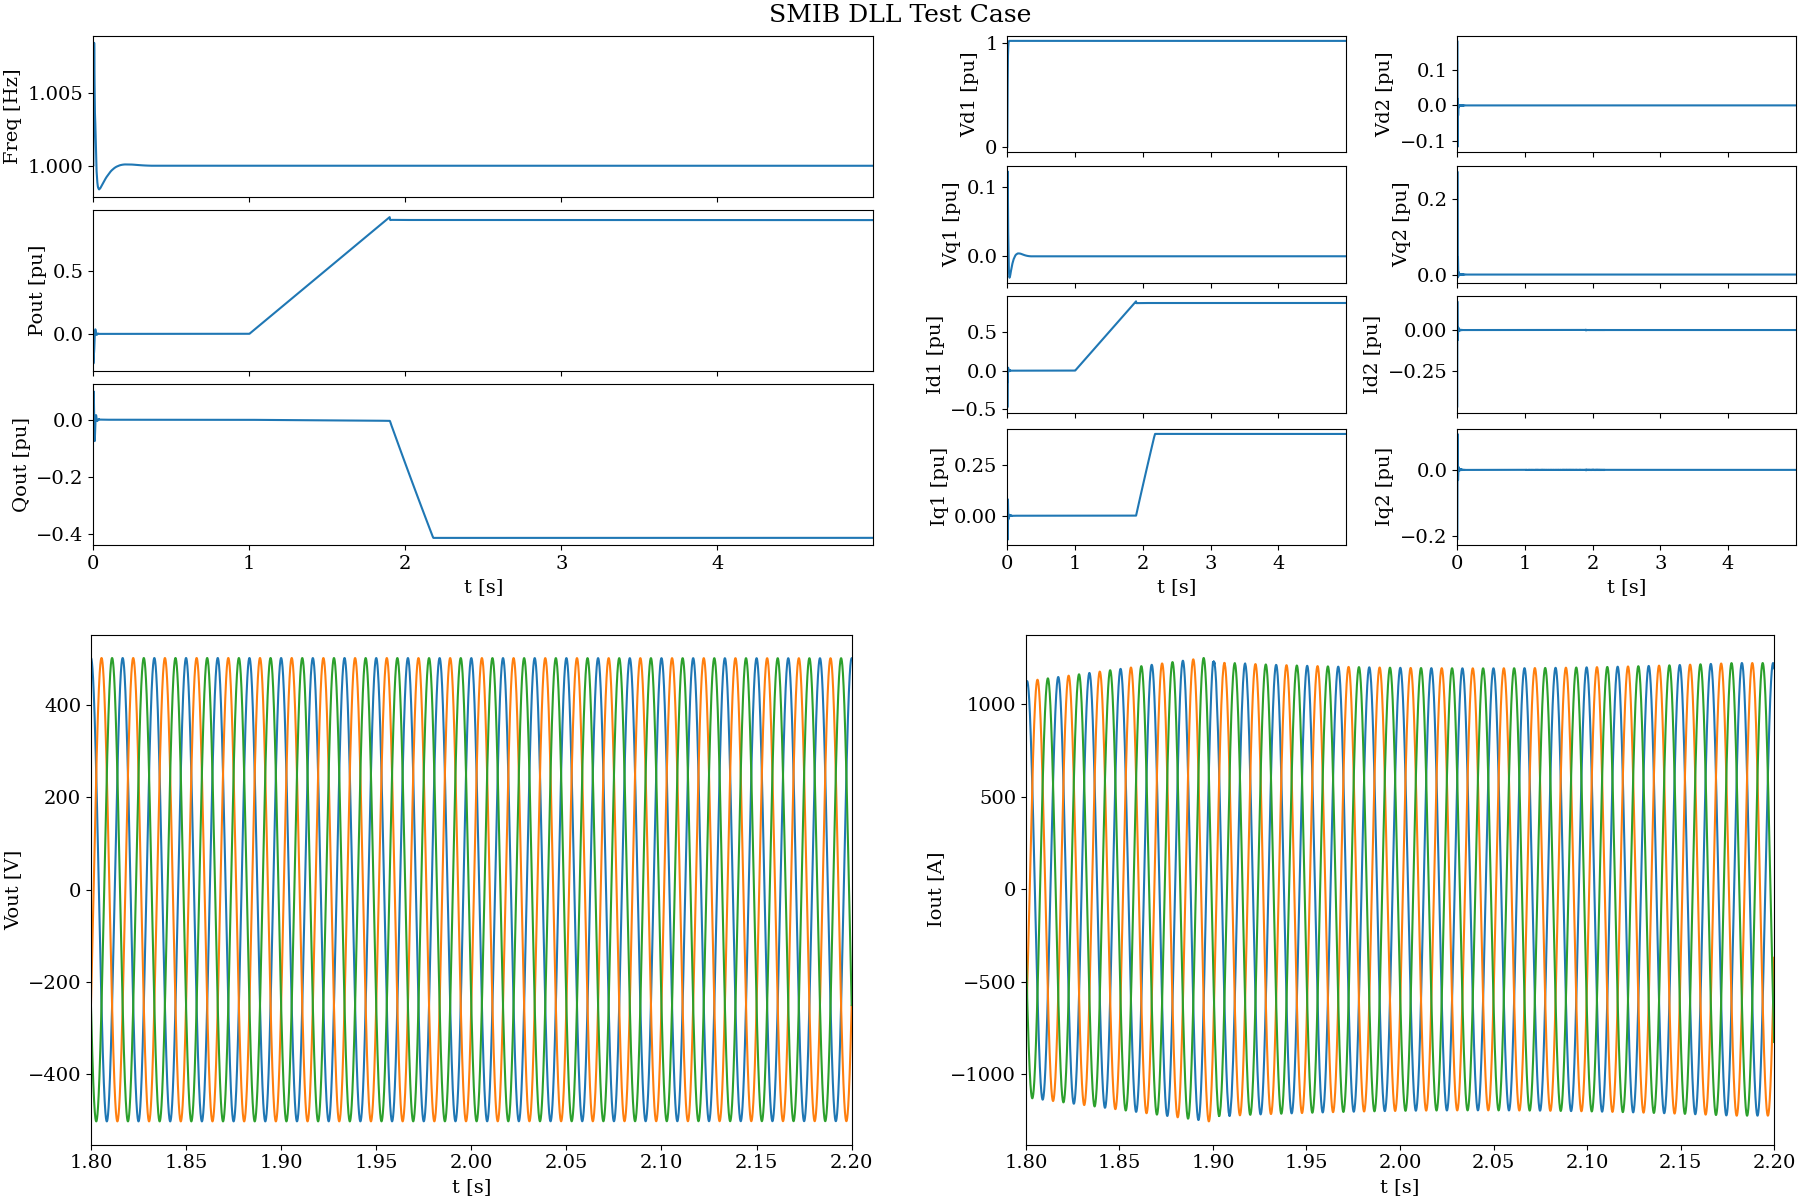
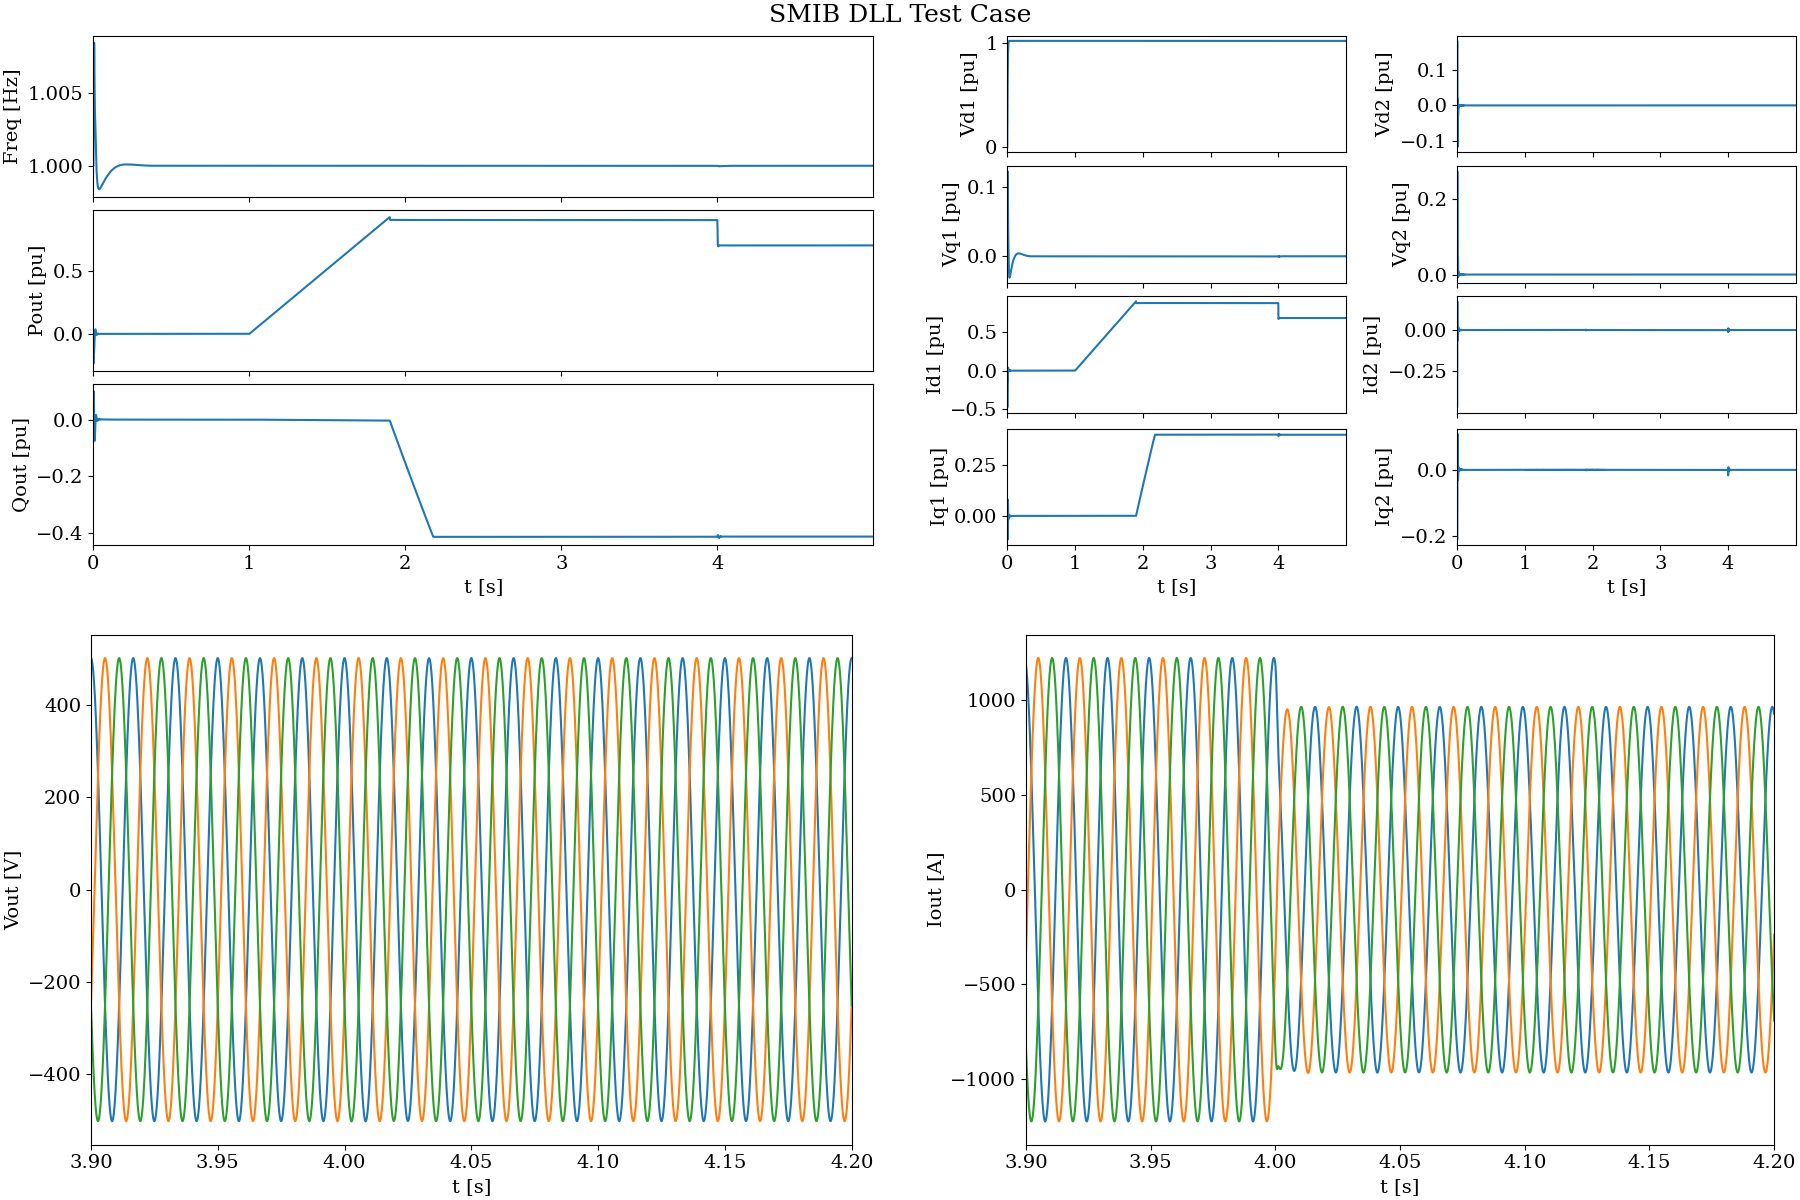
add a control reference change

diff --git a/atp/src/plot_smib.py b/atp/src/plot_smib.py
@@ -5,6 +5,8 @@ import pandas as pd
 import os
 
 LSIZE = 14
+TZOOM1 = 3.9
+TZOOM2 = 4.2
 
 def summarize_df (df, label):
   print ('Column                         Min           Max {:s}'.format (label))
@@ -75,9 +77,9 @@ def plot_page (df, title, savename=None):
   plot_channel (ax[2,1], tplot, id2[i1:i2], 'Id2 [pu]')
   plot_channel (ax[3,1], tplot, iq2[i1:i2], 'Iq2 [pu]', bLabelX = True)
 
-  indices = np.where(t>=1.8)
+  indices = np.where(t>=TZOOM1)
   i1 = indices[0][0]
-  indices = np.where(t>2.2)
+  indices = np.where(t>TZOOM2)
   i2 = indices[0][0]
   print ('Window', i1, i2, t[i1], t[i2])
   tplot = t[i1:i2]
